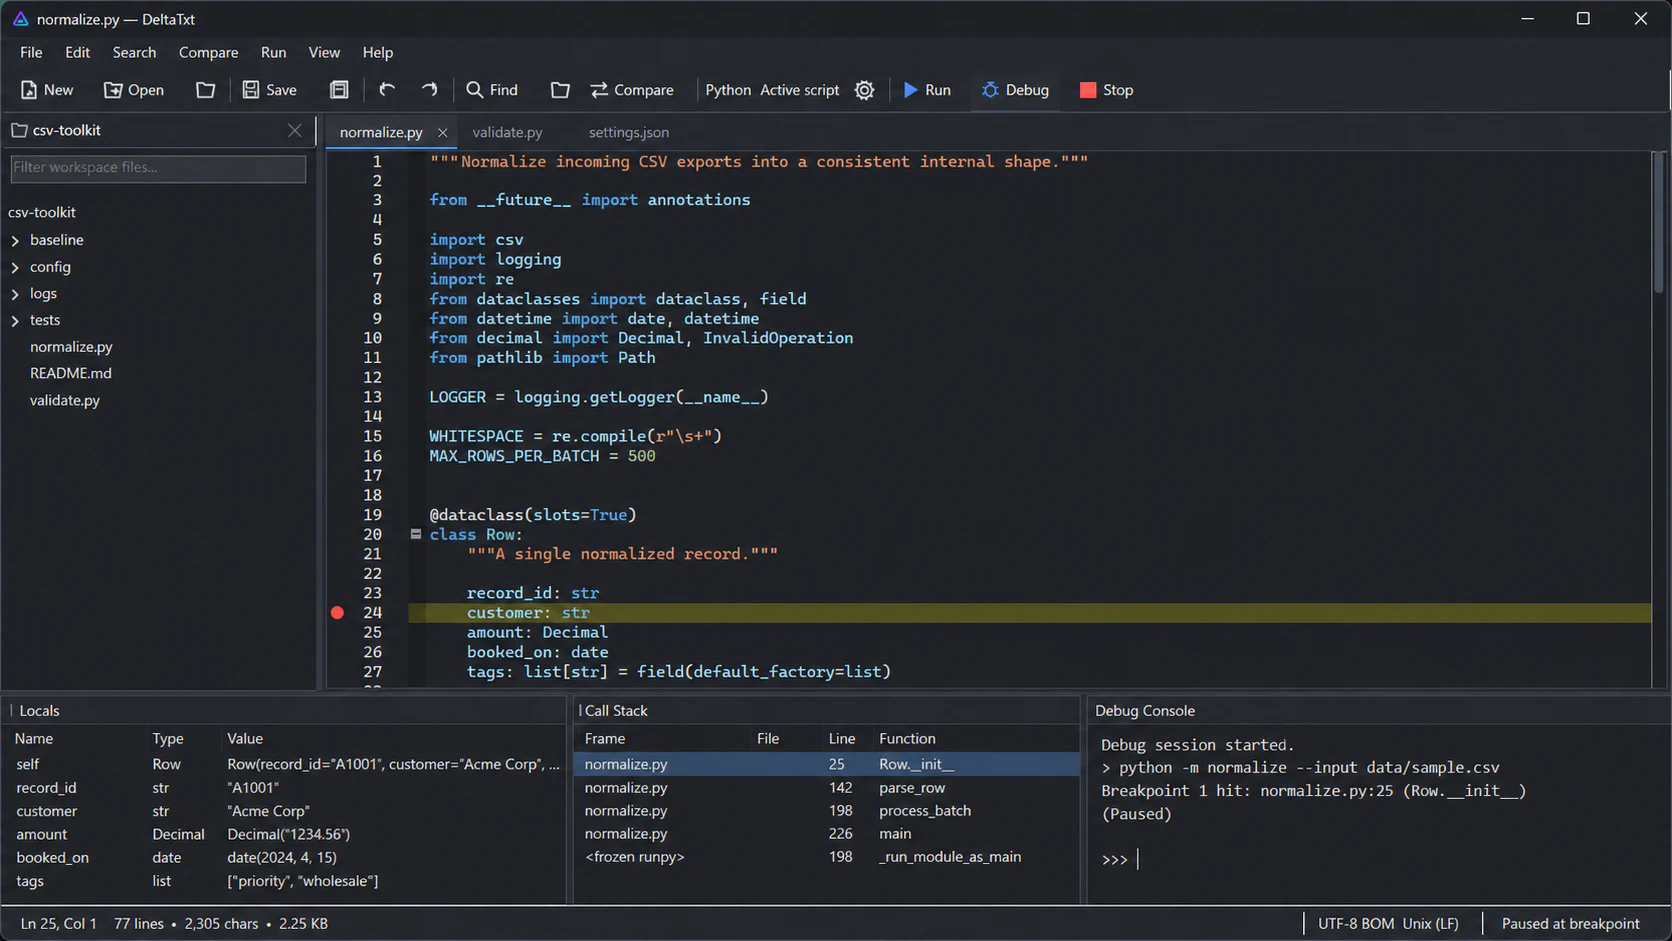
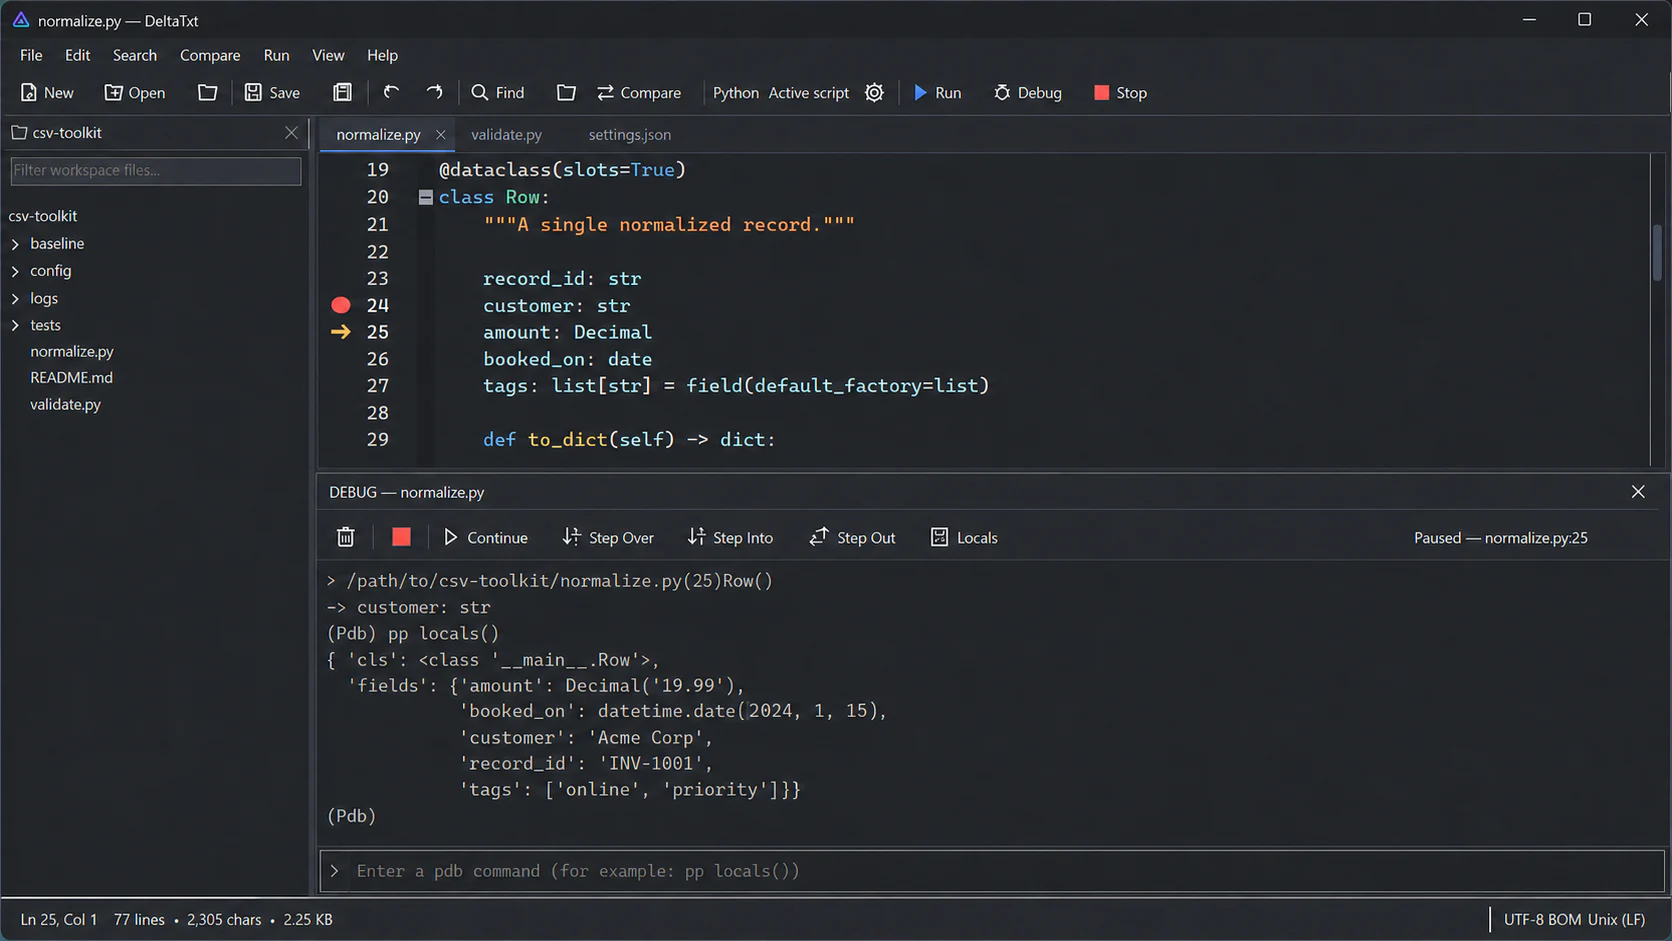
Keep DeltaTxt debugger hero feature-accurate

diff --git a/app/apps/deltatxt/page.tsx b/app/apps/deltatxt/page.tsx
@@ -40,7 +40,7 @@ const jsonLd = {
 const features = [
   ["A Mac app, through and through", "The Mac edition is written from the ground up in Swift and AppKit—not a wrapped website—with genuine Mac windows, menus, shortcuts, and document behavior."],
   ["Native C# and .NET on Windows", "The Windows edition is written in C# on .NET 8 with Windows Forms and Scintilla, following familiar Windows conventions across menus, dialogs, shortcuts, Explorer commands, and high-DPI displays."],
-  ["Python tools on Windows", "The Windows edition adds interpreter discovery, Run, breakpoints, stepping, Locals, Stack, and streamed output."],
+  ["Python tools on Windows", "The Windows edition adds interpreter discovery, Run, breakpoints, stepping, Locals, direct pdb commands, and streamed output."],
   ["Find and replace precisely", "Search by plain text or regular expression with case and whole-word controls, then review or replace the matches you intend."],
   ["Search and replace a workspace", "Find a value across related code, configs, and logs, with preview-first replacement and backups for broader changes."],
   ["Compare and merge with control", "Review versions side by side, apply individual changes, export a unified diff, or build a three-way merge draft without overwriting the inputs."],
@@ -88,13 +88,13 @@ export default function DeltaTxtPage() {
           <p className="eyebrow"><span />Windows IDE · Native C# + .NET 8 · Freeware</p>
           <div className="app-title-lockup"><img src="/apps/deltatxt/icon-160.webp" alt="" width={160} height={160} /><h1>DeltaTxt</h1></div>
           <h2>Python debugging without the heavyweight IDE.</h2>
-          <p>Set breakpoints, step through code, inspect locals, and follow the call stack in a fast native Windows app. No Electron or web wrapper. Also available natively for Mac.</p>
+          <p>Set breakpoints, step through code, inspect locals, and send direct pdb commands in a fast native Windows app. No Electron or web wrapper. Also available natively for Mac.</p>
           <StoreLinks />
           <p className="fine-print">macOS 13+ · Windows 10/11 · Free · No account required</p>
         </div>
         <div className="product-hero-debugger" aria-label="DeltaTxt Python debugging on Windows">
           <figure>
-            <img src="/apps/deltatxt/hero-windows-debug.webp" alt="DeltaTxt Python debugger paused at a breakpoint on Windows with Locals, Call Stack, and Debug Console panes" width={1672} height={941} fetchPriority="high" />
+            <img src="/apps/deltatxt/hero-windows-debug.webp" alt="DeltaTxt Python debugger on Windows after stepping from a breakpoint, with its docked output panel and pdb command field visible" width={1672} height={941} fetchPriority="high" />
           </figure>
         </div>
       </section>
@@ -136,7 +136,7 @@ export default function DeltaTxtPage() {
         <div className="section-heading"><p className="section-number">04 / QUESTIONS</p><h2>Frequently asked questions.</h2></div>
         <div className="faq-list">
           <details><summary>Is the Mac version native?</summary><p>Yes. DeltaTxt for Mac is built natively in Swift with AppKit. It is not an Electron app or a wrapped website.</p></details>
-          <details><summary>Can DeltaTxt debug Python?</summary><p>Yes, in the Windows edition. Set breakpoints, then Continue, Step Over, Step Into, or Step Out while reviewing Locals, Stack, current-line state, and debugger output. The Mac App Store edition focuses on editing and text tools and does not include script execution.</p></details>
+          <details><summary>Can DeltaTxt debug Python?</summary><p>Yes, in the Windows edition. Set breakpoints, then Continue, Step Over, Step Into, or Step Out while reviewing the current line, printing Locals, and entering direct pdb commands in the docked output panel. The Mac App Store edition focuses on editing and text tools and does not include script execution.</p></details>
           <details><summary>How powerful is find and replace?</summary><p>Use case-sensitive, whole-word, or regular-expression search in one document or across a workspace. For workspace replacement, DeltaTxt builds a preview, revalidates files before applying changes, and keeps a backup tree.</p></details>
           <details><summary>Is DeltaTxt really free?</summary><p>Yes. DeltaTxt is freeware with no subscription, account, advertising, or paid tier required.</p></details>
           <details><summary>Does it collect usage data?</summary><p>No. DeltaTxt does not include telemetry, analytics, advertising, or automatic crash submission.</p></details>
